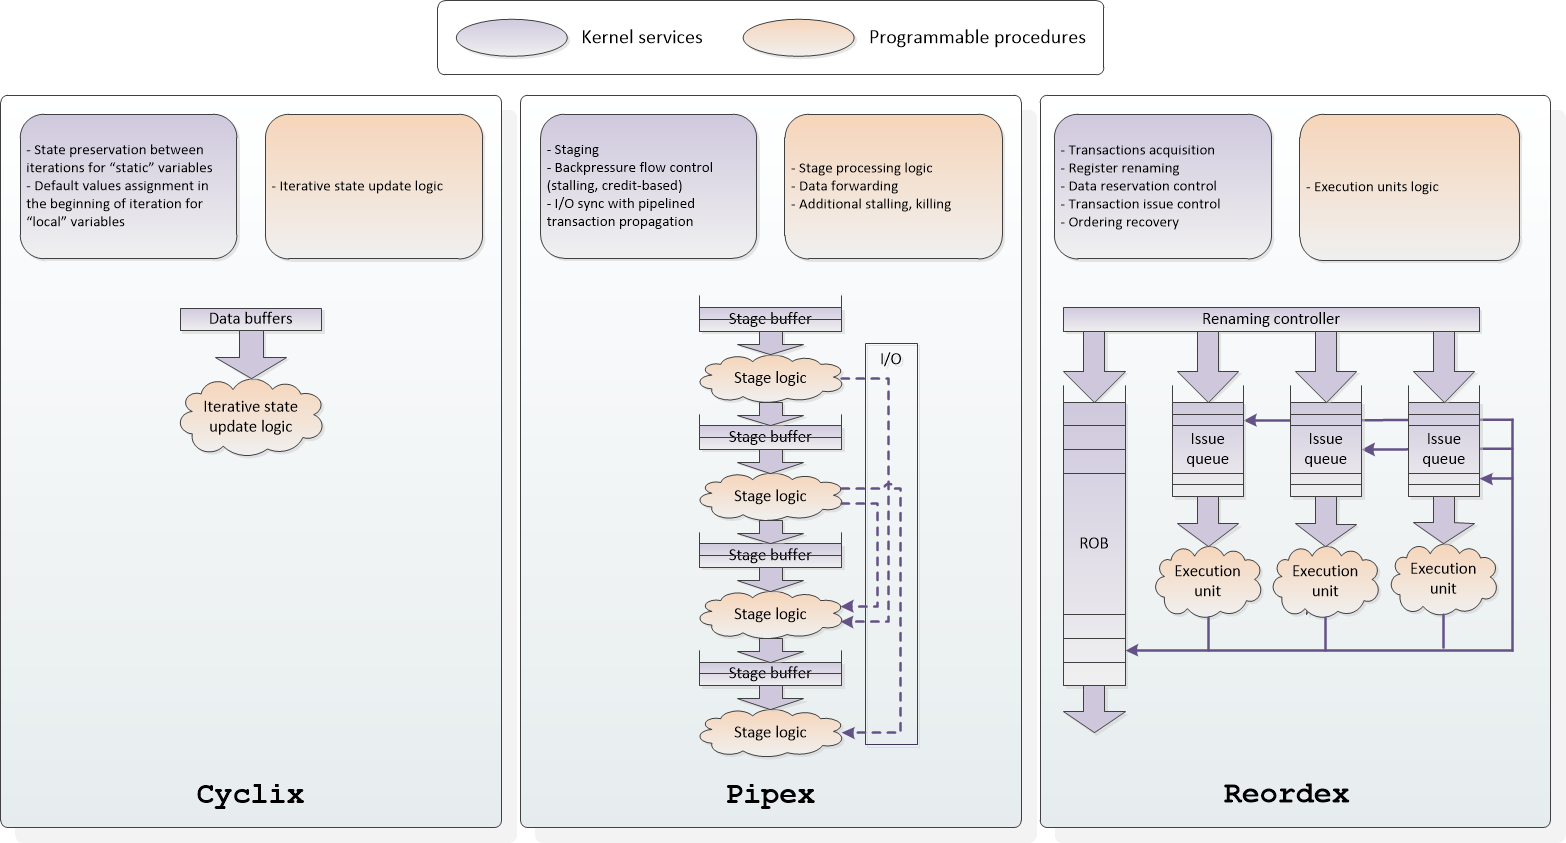
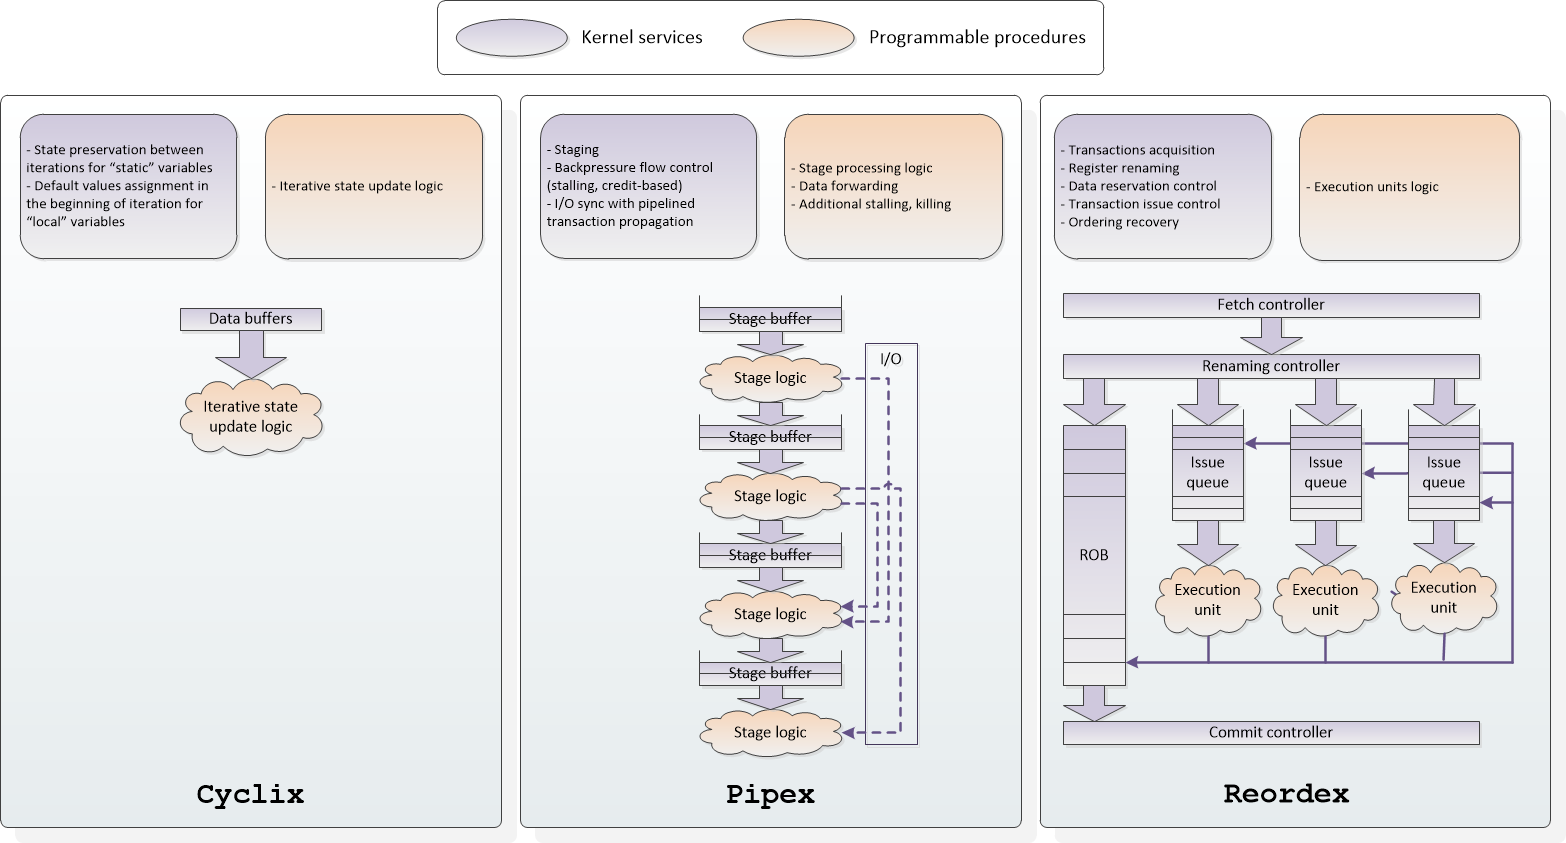
Reordex RISC mode update

Changed region(s): [[0.6743, 0.3393, 0.9808, 0.8019], [0.6743, 0.8327, 0.9502, 0.8944], [0.6743, 0.6477, 0.705, 0.6785]]

diff --git a/kernelip/cyclix/src/hw_stage.kt b/kernelip/cyclix/src/hw_stage.kt
@@ -35,6 +35,70 @@ open class hw_fifo(val cyclix_gen : cyclix.Generic,
         return AddLocal(new_structvar)
     }
 
+    fun AddStageVar(name : String, vartype : hw_type, defimm : hw_imm) : hw_var {
+        return AddStageVar(hw_structvar(name, vartype, defimm))
+    }
+
+    fun AddStageVar(name : String, vartype : hw_type, defval : String) : hw_var {
+        return AddStageVar(hw_structvar(name, vartype, defval))
+    }
+
+    fun AddStageVar(name : String, src_struct_in : hw_struct, dimensions : hw_dim_static) : hw_var {
+        return AddStageVar(hw_structvar(name, src_struct_in, dimensions))
+    }
+
+    fun AddStageVar(name : String, src_struct_in : hw_struct) : hw_var {
+        return AddStageVar(hw_structvar(name, src_struct_in))
+    }
+
+    fun AdduStageVar(name : String, dimensions : hw_dim_static, defimm : hw_imm) : hw_var {
+        return AddStageVar(hw_structvar(name, DATA_TYPE.BV_UNSIGNED, dimensions, defimm))
+    }
+
+    fun AdduStageVar(name : String, dimensions : hw_dim_static, defval : String) : hw_var {
+        return AddStageVar(hw_structvar(name, DATA_TYPE.BV_UNSIGNED, dimensions, defval))
+    }
+
+    fun AdduStageVar(name : String, msb: Int, lsb: Int, defimm : hw_imm) : hw_var {
+        return AddStageVar(hw_structvar(name, DATA_TYPE.BV_UNSIGNED, msb, lsb, defimm))
+    }
+
+    fun AdduStageVar(name : String, msb: Int, lsb: Int, defval : String) : hw_var {
+        return AddStageVar(hw_structvar(name, DATA_TYPE.BV_UNSIGNED, msb, lsb, defval))
+    }
+
+    fun AdduStageVar(name : String, defimm : hw_imm) : hw_var {
+        return AddStageVar(hw_structvar(name, DATA_TYPE.BV_UNSIGNED, defimm))
+    }
+
+    fun AdduStageVar(name : String, defval : String) : hw_var {
+        return AddStageVar(hw_structvar(name, DATA_TYPE.BV_UNSIGNED, defval))
+    }
+
+    fun AddsStageVar(name : String, dimensions : hw_dim_static, defimm : hw_imm) : hw_var {
+        return AddStageVar(hw_structvar(name, DATA_TYPE.BV_SIGNED, dimensions, defimm))
+    }
+
+    fun AddsStageVar(name : String, dimensions : hw_dim_static, defval : String) : hw_var {
+        return AddStageVar(hw_structvar(name, DATA_TYPE.BV_SIGNED, dimensions, defval))
+    }
+
+    fun AddsStageVar(name : String, msb: Int, lsb: Int, defimm : hw_imm) : hw_var {
+        return AddStageVar(hw_structvar(name, DATA_TYPE.BV_SIGNED, msb, lsb, defimm))
+    }
+
+    fun AddsStageVar(name : String, msb: Int, lsb: Int, defval : String) : hw_var {
+        return AddStageVar(hw_structvar(name, DATA_TYPE.BV_SIGNED, msb, lsb, defval))
+    }
+
+    fun AddsStageVar(name : String, defimm : hw_imm) : hw_var {
+        return AddStageVar(hw_structvar(name, DATA_TYPE.BV_SIGNED, defimm))
+    }
+
+    fun AddsStageVar(name : String, defval : String) : hw_var {
+        return AddStageVar(hw_structvar(name, DATA_TYPE.BV_SIGNED, defval))
+    }
+
     fun GetPushTrx(name: String) : hw_var {
         return cyclix_gen.local(name, TRX_BUF.vartype.src_struct)
     }

diff --git a/kernelip/reordex/src/translator.kt b/kernelip/reordex/src/translator.kt
@@ -74,6 +74,26 @@ open class rename_buffer(cyclix_gen : cyclix.Generic,
     val rd_tag_prev     = AddStageVar(hw_structvar("rd_tag_prev",       DATA_TYPE.BV_UNSIGNED, MultiExu_CFG.PRF_addr_width-1, 0, "0"))
     val rd_tag_prev_clr = AddStageVar(hw_structvar("rd_tag_prev_clr",   DATA_TYPE.BV_UNSIGNED, 0, 0, "0"))
     val wb_ext          = AddStageVar(hw_structvar("wb_ext",            DATA_TYPE.BV_UNSIGNED, 0, 0, "0"))
+
+    var curinstr_addr   = DUMMY_VAR
+    var nextinstr_addr  = DUMMY_VAR
+
+    var mem_req         = DUMMY_VAR
+    var mem_cmd         = DUMMY_VAR
+    var mem_addr        = DUMMY_VAR
+    var mem_be          = DUMMY_VAR
+
+    init {
+        if (MultiExu_CFG.mode == REORDEX_MODE.RISC) {
+            curinstr_addr   = AdduStageVar("curinstr_addr", 31, 0, "0")
+            nextinstr_addr  = AdduStageVar("nextinstr_addr", 31, 0, "0")
+
+            mem_req         = AdduStageVar("mem_req", 0, 0, "0")
+            mem_cmd         = AdduStageVar("mem_cmd", 0, 0, "0")
+            mem_addr        = AdduStageVar("mem_addr", 31, 0, "0")
+            mem_be          = AdduStageVar("mem_be", 3, 0, "0")
+        }
+    }
 }
 
 class iq_buffer(cyclix_gen : cyclix.Generic,
@@ -105,6 +125,26 @@ class rob_buffer(cyclix_gen : cyclix.Generic,
     val rdy             = AddStageVar(hw_structvar("rdy",               DATA_TYPE.BV_UNSIGNED, 0, 0, "0"))
 
     var TRX_ID_COUNTER  = cyclix_gen.uglobal(name_prefix + "_TRX_ID_COUNTER", GetWidthToContain(TRX_BUF_SIZE)-1, 0, "0")
+
+    var curinstr_addr   = DUMMY_VAR
+    var nextinstr_addr  = DUMMY_VAR
+
+    var mem_req         = DUMMY_VAR
+    var mem_cmd         = DUMMY_VAR
+    var mem_addr        = DUMMY_VAR
+    var mem_be          = DUMMY_VAR
+
+    init {
+        if (MultiExu_CFG.mode == REORDEX_MODE.RISC) {
+            curinstr_addr   = AdduStageVar("curinstr_addr", 31, 0, "0")
+            nextinstr_addr  = AdduStageVar("nextinstr_addr", 31, 0, "0")
+
+            mem_req         = AdduStageVar("mem_req", 0, 0, "0")
+            mem_cmd         = AdduStageVar("mem_cmd", 0, 0, "0")
+            mem_addr        = AdduStageVar("mem_addr", 31, 0, "0")
+            mem_be          = AdduStageVar("mem_be", 3, 0, "0")
+        }
+    }
 }
 
 class __exu_descr(var var_dict : MutableMap<hw_var, hw_var>, var rs_use_flags : ArrayList<Boolean>, var IQ_insts : ArrayList<iq_buffer>)

diff --git a/hwast/src/hw_struct.kt b/hwast/src/hw_struct.kt
@@ -17,8 +17,12 @@ open class hw_structvar(var name: String, vartype : hw_type, var defimm : hw_imm
 
     constructor(name: String, vartype : hw_type, defval : String) : this(name, vartype, hw_imm(defval))
     constructor(name: String, VarType : DATA_TYPE, dimensions : hw_dim_static, defval : String) : this(name, hw_type(VarType, dimensions), defval)
+    constructor(name: String, VarType : DATA_TYPE, dimensions : hw_dim_static, defimm : hw_imm) : this(name, hw_type(VarType, dimensions), defimm)
     constructor(name: String, VarType : DATA_TYPE, msb: Int, lsb: Int, defval : String) : this(name, hw_type(VarType, msb, lsb), defval)
+    constructor(name: String, VarType : DATA_TYPE, msb: Int, lsb: Int, defimm : hw_imm) : this(name, hw_type(VarType, msb, lsb), defimm)
     constructor(name: String, VarType : DATA_TYPE, defval : String) : this(name, hw_type(VarType, hw_dim_static(defval)), defval)
+    constructor(name: String, VarType : DATA_TYPE, defimm : hw_imm) : this(name, hw_type(VarType, defimm.dimensions), defimm)
+    constructor(name: String, src_struct : hw_struct, dimensions : hw_dim_static) : this(name, hw_type(src_struct, dimensions), hw_imm(0))
     constructor(name: String, src_struct : hw_struct) : this(name, hw_type(src_struct), "0")
 
     var defval = defimm.imm_value           // TODO: remove

diff --git a/README.md b/README.md
@@ -7,7 +7,7 @@ ActiveCore is a framework that demonstrates original hardware designing concept 
 
 KIP core is a hardware generator that provides custom synthesizable execution kernel constructed in accordance to certain microarchitectural template. Each KIP core offers hardware description within custom computational model inferred from computational process organization inside hardware microarchitecture, applies microarchitecture-aware optimizations, and generates design specifications in standard RTL/HLS form.
 
-KIP core's computational model typically includes:
+KIP core's computational model is intended to include:
 * special data types exhibiting behavior of "microarchitectural" execution units;
 * pre-defined data structures and API for flow control, scheduling, communication, and synchronization "services" of the microarchitecture;
 * event model and handler procedures selectively exposed for behavioral-style programming of custom application functions and mechanisms.
@@ -52,7 +52,7 @@ Current version of project is implemented as a collection of standalone Kotlin l
 * Demo FPGA-based SoCs:
 	* **Sigma** - basic MCU consisting of a single sigma_tile module, UDM, and GPIO controller. Can be learned within a single lab work, lab work manual included: https://github.com/AntonovAlexander/activecore/blob/master/designs/rtl/sigma/doc/sigma_lab_manual.pdf. Location: /designs/rtl/sigma
 	* **Magma** - NUMA MPSoC consisting of multiple sigma_tile modules connected by Ariele xbar. Location: /designs/rtl/magma
-	* **Kerygma** - MPU based on Agenda OoO CPU. Location: /designs/rtl/kerygma *(in development)*
+	* **Kerygma** - MPU based on Agenda CPU. Location: /designs/rtl/kerygma *(in development)*
 
 ### Publications
 
